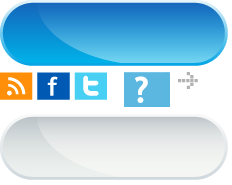
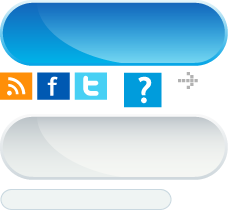
initial upload of help system, error/apology pages, login etc.

diff --git a/css/main.css b/css/main.css
@@ -1,6 +1,7 @@
 body {
 	margin: 0;
 	padding: 0;
+	position: relative;
 	background-color: #00B1E8;
 	font-family: Verdana, Arial, Sans-Serif;
 }
@@ -26,12 +27,13 @@ body {
 	z-index: 4;
 }
 
-.selection_message {
+.selection_message, .error_message {
 	margin: 0 0 2em;
 	text-align: center;
 	font: 24px Verdana, Arial, Sans-Serif;
-	color: #009CDC;
 }
+.selection_message { color: #009CDC; }
+.error_message { color: red; }
 
 .selections {
 	width: 900px;
@@ -58,6 +60,7 @@ body {
 	height: 50px;
 	padding: 8px 0;
 	text-align: center;
+	text-decoration: none;
 }
 
 .control.selection_button {
@@ -77,6 +80,23 @@ body {
 	height: 19px;
 	margin: 3em 4em 0;
 	background-position: -178px -71px;
+}
+
+#login_form {
+	position: absolute;
+	top: 10px;
+	right: 4em;
+	text-align: right;
+}
+
+.control.input {
+	display: inline-block;
+	border: none;
+	width: 152px;
+	height: 20px;
+	padding: 1px 10px;
+	background-position: 0 -188px;
+	outline: none;
 }
 
 .selection_image {
@@ -135,13 +155,33 @@ body {
 .providers.rackspace { background-position: -130px 0; width: 110px; }
 .providers.amazon { background-position: -245px 0; width: 125px; }
 
-.helper {
+#helper {
 	position: absolute;
-	right: 0;
-	top: 100px;
-	width: 34px;
-	height: 34px;
-	background-position: -124px -73px;
+	z-index: 5;
+	right: 0; top: 240px;
+	width: 38px;
+	height: 36px;
+	background: #009CDC url('/css/images/helper.png') no-repeat right top;
+	opacity: 0.5;
+	color: white;
+	overflow: hidden;
+	cursor: pointer;
+}
+
+#helper .help_header {
+	display: inline-block;
+	text-align: center;
+	margin: 0.8em 0 0 2.5em;
+	font-weight: bold;
+	border-bottom: 2px dashed white;
+}
+
+#helper .help_message {
+	display: block;
+	text-align: justify;
+	text-indent: 1.5em;
+	margin: 1em;
+	overflow-y: auto;
 }
 
 .confirm_dialogue {
@@ -160,6 +200,21 @@ body {
 	background: url('/css/images/blue_background.png') repeat-x;
 	position: relative;
 	z-index: 3;
+}
+
+#menu {
+	margin-left: 3em;
+	padding-top: 2em;
+	font: bold 13px Arial, Verdana, Sanf-serif;
+}
+
+#menu .item {
+	display: inline-block;
+	padding: 0 0 0.1em 0.1em;
+	border-bottom: 1px dashed white;
+	margin-right: 1em;
+	color: white;
+	text-decoration: none;
 }
 
 .social_icon {
@@ -183,9 +238,37 @@ body {
 #copyright {
 	display: block;
 	position: absolute;
-	right: 3.35em;
+	right: 4em;
 	bottom: 2em;
-	font: bold 0.9em Verdana, Arial, Sans-Serif;
+	font: 12px Arial, Verdana, Sans-Serif;
+	color: white;
+}
+
+.overlay {
+	display: none;
+	position: fixed;
+	top: 0; right: 0; bottom: 0; left: 0;
+	width: auto;
+	height: auto;	
+}
+
+.overlay.back {
+	z-index: 10;
+	background: #000;
+}
+
+.overlay.front {
+	z-index: 11;
+	background: #fff;
+	margin: 5em 20%;
+	padding: 2em;
+}
+
+.help_title {
+	color: #009CDC;
+	font-weight: bold;
+	display: block;
+	margin-bottom: 1em;
 }
 
 .clearfix { clear: both; }

diff --git a/js/main.js b/js/main.js
@@ -13,4 +13,57 @@ $(function(){
 			}, 200);
 		})
 	});
+	
+	(function(){
+		var helper = $('#helper'),
+			message = helper.children('.help_message'),
+			modulars = $('.overlay'),
+			overlays = {
+				back: modulars.filter('.back'),
+				front: modulars.filter('.front')
+			},
+			initials = {
+				width: helper.width(),
+				height: helper.height()
+			},
+			start = {
+				width: initials.width + 'px',
+				height: initials.height + 'px',
+				opacity: helper.css('opacity')
+			},
+			end = {
+				width: initials.width * 7 + 'px',
+				height: initials.height * 6 + 'px',
+				opacity: '1'
+			};
+			
+		helper.hover(function(){
+			helper.animate(end, 'slow');
+		}, function(){
+			setTimeout(function(){
+				helper.animate(start, {
+					duration: 200
+					// ,
+					// complete: function(){
+						// helper.stop();
+					// }
+				});
+			}, 500);
+		}).click(function(){
+			overlays.back.fadeTo('fast', 0.5, function(){
+				overlays.front.show();
+			});
+		});
+		
+		overlays.back.click(function(){
+			modulars.hide();
+		});
+		
+		$(document).keydown(function(event){
+			if(event.which === 27)
+			{
+				modulars.hide();
+			}
+		});
+	})();
 });

diff --git a/system/application/views/footer.php b/system/application/views/footer.php
@@ -1,11 +1,14 @@
-<div id="footer" class="clearfix">
-	
+<div id="footer" class="clearfix">	
 	<a href="twitter" class="control social_icon twitter" title="Follow us on Twitter!">Follow us on Twitter!</a>		
 	<a href="facebook" class="control social_icon facebook" title="We on Facebook">We are on Facebook, Too</a>
 	<a href="rss" class="control social_icon rss" title="Our Rss feed">Our Rss feed</a>
 	<span id="copyright">All rights reserved &copy; <?php echo date('Y') ?>, TenBrain</span>
 	
-	<div class="clearfix"></div>
+	<div id="menu">
+		<a class="item" href="<?php echo base_url() ?>about">About us</a>
+		<a class="item" href="<?php echo base_url() ?>about">Item 2</a>
+		<a class="item" href="<?php echo base_url() ?>about">Item 3</a>
+	</div>
 </div>
 
 </body>

diff --git a/system/application/views/selection.php b/system/application/views/selection.php
@@ -10,14 +10,13 @@
 	<div class="selections">
 	<?php foreach($selections as $class => $data): ?>
 		<a class="selection_item<?php echo $data['disabled'] ? ' disabled' : '' ?>"
-			href="<?php echo base_url() . ($data['disabled'] ? 'sorry' : $next . '/' . $class) ?>">
+			href="<?php echo base_url() . ($data['disabled'] ? 'apology' : $next . '/' . $class) ?>">
 			<span class="selection_image <?php echo $type . ' ' . $class ?>">.</span>
 			<span class="control selection_button <?php echo $data['type'] ?>"><?php echo $data['text'] ?></span>
 		</a>
 	<?php endforeach; ?>
 	</div>
-	<div class="control helper"></div>
 	<div class="clearfix"></div>
 </div>
-
+<?php $this->load->view('help') ?>
 <?php $this->load->view('footer') ?>

diff --git a/system/application/views/header.php b/system/application/views/header.php
@@ -20,4 +20,18 @@
 
 <div id="header">
 	<span class="title">| Save your Brain, While saving Money! |</span>
+		<form id="login_form" action="<?php echo base_url() . 'login' ?>" method="post">
+			<p>
+				<label for="username" class="login_label">Username</label>
+				<input id="username" class="control input" name="username" type="text" size="25" />
+			</p>
+			<p>
+				<label for="password" class="login_label">Password</label>
+				<input id="password" class="control input" name="password" type="password" size="25" />
+			</p>
+			<p>
+				<a id="register" href="/register">Register</a>
+				<input type="submit" class="login_button" id="login_submit" value="Log in" />
+			</p>
+		</form>
 </div>

diff --git a/system/application/views/help.php b/system/application/views/help.php
@@ -1,0 +1,10 @@
+<div id="helper">
+	<span class="help_header"><?php echo isset($short_header) ? $short_header : 'Tips' ?></span>
+	<span class="help_message"><?php echo isset($short_message) ? $short_message : "This is a sample text for a TenBrain help system. Mind it's size - do not put too much text here. If you want to add more help, use the one that dispays in a shaded box. That will be viewed when clicking here." ?></span>
+</div>
+
+<div class="overlay back"></div>
+<div class="overlay front">
+	<span class="help_title">The help title</span>
+	<span class="help_message">Help message Help message Help message Help message Help message Help message </span>
+</div>

diff --git a/system/application/views/results.php b/system/application/views/results.php
@@ -19,12 +19,13 @@
 	<?php endforeach; ?>	
 	<div class="clearfix"></div>
 	</div>
+	
 	<div class="confirm_dialogue">
-		<a class="control reject_button small">Change this</a>
+		<a class="control reject_button small" href="<?php echo base_url() ?>">Change this</a>
 		<a class="control selection_button small">Confirm</a>
 	</div>
-	<div class="control helper"></div>
+	
 	<div class="clearfix"></div>
 </div>
-
+<?php $this->load->view('help') ?>
 <?php $this->load->view('footer') ?>

diff --git a/system/application/config/routes.php b/system/application/config/routes.php
@@ -44,9 +44,9 @@ $route['default_controller'] = "selection";
 $route['scaffolding_trigger'] = "";
 
 $route['select'] = "selection/index";
-$route['select/(:any)'] = "selection/index/$1";
-$route['select/(:any)/(:any)'] = "selection/index/$1/$2";
-$route['select/(:any)/(:any)/(:any)'] = "selection/index/$1/$2/$3";
+$route['about'] = "miscellaneous/about";
+$route['apology'] = "miscellaneous/apology";
+$route['error'] = "miscellaneous/error";
 
 
 /* End of file routes.php */

diff --git a/system/application/controllers/miscellaneous.php b/system/application/controllers/miscellaneous.php
@@ -1,0 +1,31 @@
+<?php
+
+class Miscellaneous extends Controller {
+	
+	function __construct()
+	{
+		parent::Controller();
+	}
+	
+	function index()
+	{
+	}
+	
+	function about()
+	{
+		$this->load->view('about');
+	}
+	
+	function apology()
+	{
+		$this->load->view('apology');
+	}
+	
+	function error()
+	{
+		$this->load->view('error');
+	}
+}
+
+/* End of file miscellaneous.php */
+/* Location: ./system/application/controllers/miscellaneous.php */

diff --git a/system/application/views/error.php b/system/application/views/error.php
@@ -1,0 +1,14 @@
+<?php
+	$this->load->view('header', array(
+		'title'		=> 'Welcome',
+		'styles'	=> array('main'),
+		'scripts'	=> array('jquery-1.4.4.min', 'jquery-ui-1.8.9.custom.min', 'main'),
+	));
+?>
+<div id="main">
+	<p class="error_message">An error occured</p>
+	
+	<div class="clearfix"></div>
+</div>
+<?php $this->load->view('help') ?>
+<?php $this->load->view('footer') ?>

diff --git a/system/application/views/about.php b/system/application/views/about.php
@@ -1,0 +1,14 @@
+<?php
+	$this->load->view('header', array(
+		'title'		=> 'Welcome',
+		'styles'	=> array('main'),
+		'scripts'	=> array('jquery-1.4.4.min', 'jquery-ui-1.8.9.custom.min', 'main'),
+	));
+?>
+<div id="main">
+	<p class="selection_message">About us:</p>
+	
+	<div class="clearfix"></div>
+</div>
+<?php $this->load->view('help') ?>
+<?php $this->load->view('footer') ?>

diff --git a/system/application/views/apology.php b/system/application/views/apology.php
@@ -1,0 +1,14 @@
+<?php
+	$this->load->view('header', array(
+		'title'		=> 'Welcome',
+		'styles'	=> array('main'),
+		'scripts'	=> array('jquery-1.4.4.min', 'jquery-ui-1.8.9.custom.min', 'main'),
+	));
+?>
+<div id="main">
+	<p class="selection_message">Apology</p>
+	
+	<div class="clearfix"></div>
+</div>
+<?php $this->load->view('help') ?>
+<?php $this->load->view('footer') ?>
